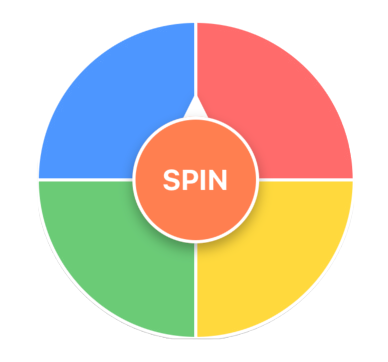
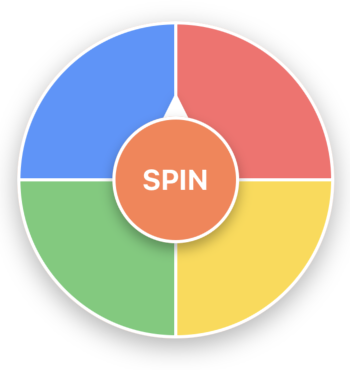
placeholder wheel

Changed region(s): [[0.0286, 0.0608, 0.9714, 0.9724], [0.4, 0.4558, 0.6, 0.547], [0.6571, 0.0912, 0.7143, 0.1215]]

diff --git a/src/screens/HomeScreen/HomeScreen.js b/src/screens/HomeScreen/HomeScreen.js
@@ -304,10 +304,13 @@ const handleUpdateTask = async () => {
     // };
 
       const PieSlice = ({ color, angle, index, tasksLength, task }) => {
+        const strokeWidth = 2; // Your stroke width
         const radius = 100;
+        const adjustedRadius = radius - strokeWidth / 2; // Adjust the radius        
         const pathData = tasksLength === 1
-          ? `M ${radius}, ${radius} m -${radius}, 0 a ${radius},${radius} 0 1,0 ${radius * 2},0 a ${radius},${radius} 0 1,0 -${radius * 2},0`
-          : describeArc(radius, radius, radius, index * angle, (index + 1) * angle);
+        ? `M ${radius}, ${radius} m -${adjustedRadius}, 0 a ${adjustedRadius},${adjustedRadius} 0 1,0 ${adjustedRadius * 2},0 a ${adjustedRadius},${adjustedRadius} 0 1,0 -${adjustedRadius * 2},0`
+        : describeArc(radius, radius, adjustedRadius, index * angle, (index + 1) * angle);
+      
         return (
         <G>
       <Path d={pathData} fill={color} 
@@ -531,10 +534,10 @@ const renderItem = (data, rowMap) => (
             tasksForWheel.length > 0 ? (
                 <Wheel tasks={tasksForWheel} />
             ) : (
-                <View style={styles.placeholderContainer}>
+                <View >
                 <Image
                     source={require('../../../assets/wheelview.png')}
-                    style={styles.logo}
+                    style={styles.placeholderContainer}
                 />
                 </View>
             )

diff --git a/src/screens/HomeScreen/styles.js b/src/screens/HomeScreen/styles.js
@@ -18,15 +18,16 @@ export default StyleSheet.create({
         alignItems: 'center',
         justifyContent: 'center',
         height: 210, // Arbitrary size, you can adjust as needed
-        width: 220, // This should be a square
-        borderRadius: 100, // Half of the size to make it a circle
+        width: 210, // This should be a square
+        // borderRadius: 100, // Half of the size to make it a circle
         // borderWidth: 5,
         // borderColor: '#64b5f6',
         // backgroundColor: 'lightblue'
       },
       placeholderContainer: {
-        height: 210, 
-        width: 190,
+        marginTop: 6.5,
+        height: 220, 
+        width: 220,
       },
       // wheelText: {
       //   fontSize: 18,
